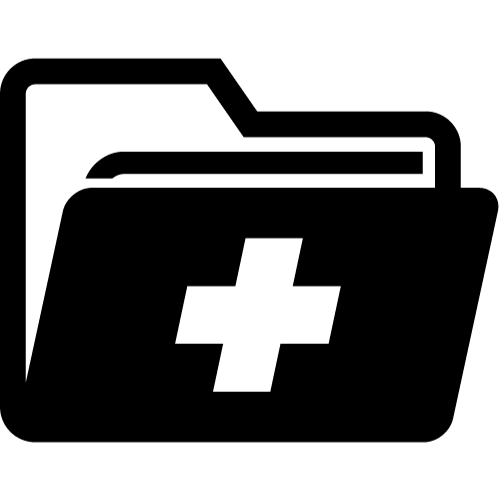
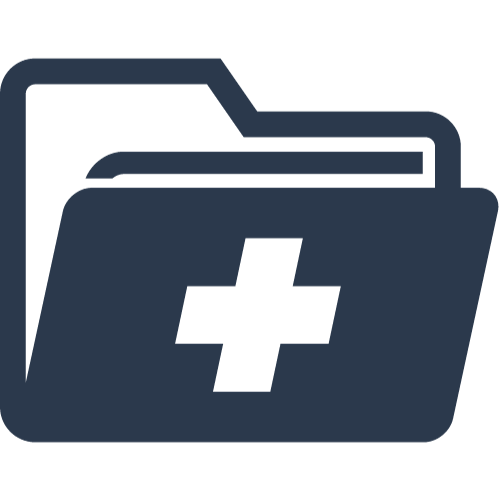
Added new images and modified the CSS files.

diff --git a/app/static/base_style.css b/app/static/base_style.css
@@ -3,6 +3,7 @@
     --blueB: #A3D5FF;
     --blueC: #DFF1FF;
     --blueD: #007BFF; /* Active (button, text, background) */
+    --darkBlue: #2B394C;
     --grayA: #6C757D;  /* Disabled Text */
     --grayB: #E9ECEF; /* Disabled Background */
 }
@@ -43,6 +44,7 @@
 .cms-logo p {
     font-weight: 400;
     margin-left: 15px;
+    color: var(--darkBlue);
 }
 
 /* -------------------------------------------- SIDEBAR -------------------------------------------- */
@@ -50,6 +52,7 @@
     width: 80px;  
     height: 700px; 
     background-color: var(--blueC);
+    box-shadow: 0 0 15px rgba(0, 0, 0, 0.3); 
     position: fixed;  
     padding: 8px;
     z-index: 1;
@@ -75,19 +78,16 @@
 
 /* selected icon */
 .selected-icon-bg {
-    width: 95px;  
+    width: 100%;  
     height: 62px; 
     background-color: white; 
-    border-radius: 30px; 
+    border-radius: 20px; 
+    box-shadow: 0 0 5px rgba(0, 0, 0, 0.2); 
     padding: 4px;
 }
 
-.selected-icon-bg:hover {
-    transition: 0.3s;
-}
-
 /* icon text styles */
-.icon-bg p, .logout p {
+.icon-bg p, .logout p, .selected-icon-bg p {
     display: flex;
     position: relative;
     transition: all 0.3s ease-out; 
@@ -98,28 +98,28 @@
     left: 35px;
     padding: 10px;
     border-radius: 10px;
-    background-color: black;
+    background-color: var(--darkBlue);
     color: white;
     font-weight: 100;
 }
 
-.icon-bg p::after, .logout p::after {
+.icon-bg p::after, .logout p::after, .selected-icon-bg p::after {
     content: "";
     position: absolute;
     width: 26px;
     height: 26px;
     border-radius: 2px;
-    background-color: black;
+    background-color: var(--darkBlue);
     transform: rotate(45deg);
     z-index: -1;
 }
 
-.icon-bg p::after, .logout p::after {
+.icon-bg p::after, .logout p::after, .selected-icon-bg p::after {
     left: -6px;
     top: 5px;
 }
 
-.icon-bg:hover p, .logout:hover p {
+.icon-bg:hover p, .logout:hover p, .selected-icon-bg:hover p {
     left: 25px;
     opacity: 1;
     visibility: visible;
@@ -143,7 +143,7 @@ ul li {
 
 a {
     text-decoration: none;
-    color: black;
+    color: var(--darkBlue);
 }
 
 ul li img {
@@ -201,8 +201,8 @@ ul li p {
 /* -------------------------------------------- PATIENT TABLE -------------------------------------------- */
 .patient-header p {
     position: absolute;
-    top: 50px;
-    left: 145px;
+    top: 45px;
+    left: 110px;
     font-weight: 900;
     font-size: 18px;
 }
@@ -210,11 +210,11 @@ ul li p {
 
 .patient-table {
     position: relative; 
-    width: 1330px; 
+    width: 1400px; 
     top: 85px; 
-    left: 145px;
+    left: 110px;
     line-height: 1.5;
-    color: black;
+    color: var(--darkBlue);
     background-color: white;
     font-size: 16px;
 }
@@ -235,7 +235,7 @@ ul li p {
 
 .table thead {
     background-color: var(--blueB);
-    color: black;
+    color: var(--darkBlue);
 }
 
 .table-striped tbody tr:nth-of-type(even) {
@@ -317,7 +317,7 @@ ul li p {
 .dataTables_wrapper .dataTables_filter input {
     padding: 0.375rem 0.5rem;
     margin-bottom: 1rem; 
-    color: black; 
+    color: var(--darkBlue); 
     background-color: white; 
     border: 1px solid var(--blueB); 
     border-radius: 0.25rem; 
@@ -326,12 +326,12 @@ ul li p {
 }
 
 .dataTables_wrapper .dataTables_filter {
-    margin-left: 1065px;
+    margin-left: 1135px;
     margin-top: 0px;
 }
   
 .dataTables_wrapper .dataTables_filter input:focus {
-    color: black; 
+    color: var(--darkBlue); 
     background-color: white; 
     border-color:  var(--blueB); 
     outline: 0;
@@ -430,7 +430,7 @@ ul li p {
     border: 2px solid var(--blueB);
     border-radius: 5px;
     outline-color: var(--blueB);
-    color: black;
+    color: var(--darkBlue);
     font-size: 1em;
 }
 
@@ -447,7 +447,7 @@ ul li p {
 }
 
 .inputBox input:focus {
-    color: black; 
+    color: var(--darkBlue); 
     background-color: white; 
     outline: 0;
     box-shadow: 0 0 0.5rem 0 rgba(163, 213, 255, 1) 

diff --git a/app/static/doctor_style.css b/app/static/doctor_style.css
@@ -114,7 +114,7 @@ input, select {
     border: 2px solid var(--blueB);
     border-radius: 5px;
     outline-color: var(--blueB);
-    color: black;
+    color: var(--darkBlue);
     font-size: 1em;
 }
 
@@ -151,27 +151,22 @@ input, select {
 
 /* -------------------------------------------- MEDICAL HISTORY, ASSESSMENT, LAB REQUEST, PRESCRIPTION AND REPORT BACKGROUNDS -------------------------------------------- */
 .patient-bg.history {
-    width: 1230px;  
     height: 2650px; 
 }
 
 .patient-bg.assessment {
-    width: 1230px;  
     height: 3000px; 
 }
 
 .patient-bg.request {
-    width: 1230px;  
     height: 1650px; 
 }
 
 .patient-bg.prescription {
-    width: 1230px;  
     height: 1570px; 
 }
 
 .patient-bg.report {
-    width: 1230px;  
     height: 2000px; 
 }
 
@@ -387,7 +382,7 @@ input, select {
     top: 50px; 
     left: 65px;
     line-height: 1.5;
-    color: black;
+    color: var(--darkBlue);
     background-color: white;
     font-size: 16px;
 }
@@ -544,7 +539,7 @@ input, select {
 }
 
 .line-border {
-    border: 1px solid black;
+    border: 1px solid var(--darkBlue);
     width: 895px;
     left: 230px;
     top: -25px;
@@ -646,7 +641,7 @@ input, select {
 .page-break {
     position: absolute; 
     top:1400px;
-    border: 1px solid black;
+    border: 1px solid var(--darkBlue);
     width: 1000px;
     left: 110px;
 }

diff --git a/app/static/medtech_style.css b/app/static/medtech_style.css
@@ -7,11 +7,11 @@
 
 /* -------------------------------------------- DASHBOARD -------------------------------------------- */
 .notification-container {
-    width: 1340px;  
+    width: 1400px;  
     height: 1000px; 
     position: absolute;  
     top: 50px;
-    left: 140px;
+    left: 110px;
 }
 
 .request-header {
@@ -23,7 +23,7 @@
     display: flex;
     align-items: center;
     justify-content: center;
-    gap: 925px;
+    gap: 985px;
     margin-bottom: 25px;
 }
 
@@ -63,7 +63,7 @@ main {
     display: flex;
     align-items: center;
     padding: 1rem;
-    width: 1340px;
+    width: 1400px;  
     margin-left: 0px;
     height: 60px;
 }
@@ -86,7 +86,7 @@ strong:hover {
 .unread {
     border-left: 3px solid var(--blueB) !important;
     box-shadow: 0 0 5px var(--blueC);
-    width: 1340px;
+    width: 1400px;  
     margin-left: 0px;
     height: 60px;
 }
